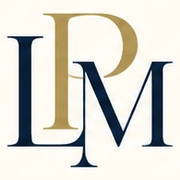
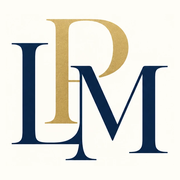
Retire le nom de l'auteur, supprime le rouge, monogramme plus net et mention d'indépendance
Claude-Session: https://claude.ai/code/session_015cSiCekAroUqW2FVDAr8L7

Changed region(s): [[0.0278, 0.0556, 0.9722, 0.9444]]

diff --git a/a-propos.html b/a-propos.html
@@ -4,11 +4,11 @@
   <meta charset="utf-8">
   <meta name="viewport" content="width=device-width, initial-scale=1">
   <title>À propos · Le Petit Monographe</title>
-  <meta name="description" content="S. Enault, auteur de monographies documentaires sur les grands dossiers politiques, économiques, sociaux et criminels.">
+  <meta name="description" content="Le Petit Monographe, publication indépendante de dossiers documentaires sur la politique, l'économie, la société et les affaires judiciaires.">
   <link rel="icon" href="favicon.png" type="image/png">
   <link rel="apple-touch-icon" href="apple-touch-icon.png">
   <meta property="og:title" content="À propos · Le Petit Monographe">
-  <meta property="og:description" content="S. Enault, auteur de monographies documentaires sur les grands dossiers politiques, économiques, sociaux et criminels.">
+  <meta property="og:description" content="Le Petit Monographe, publication indépendante de dossiers documentaires sur la politique, l'économie, la société et les affaires judiciaires.">
   <meta property="og:image" content="https://lepetitmonographe.com/assets/logo-partage.jpg">
   <meta property="og:type" content="website">
   <link rel="preconnect" href="https://fonts.googleapis.com">
@@ -36,15 +36,16 @@
   <section class="tete-page ">
     <div class="conteneur">
       <p class="surtitre">À propos</p>
-      <h1>S. Enault</h1>
-      <p class="chapeau">Auteur et éditeur du Petit Monographe.</p>
+      <h1>Le Petit Monographe</h1>
+      <p class="chapeau">Une publication indépendante, sans affiliation partisane.</p>
     </div>
   </section>
   <section class="section">
     <div class="conteneur">
       <div class="prose">
-        <p>S. Enault est l'auteur de monographies documentaires consacrées aux grands dossiers politiques, économiques, sociaux et criminels contemporains.</p>
-        <p>Sa méthode repose sur un principe simple : distinguer ce qui est établi de ce qui relève de l'interprétation, du débat ou de l'hypothèse. Ses ouvrages s'appuient sur des sources identifiées et datées : données publiques, rapports officiels, décisions de justice, travaux parlementaires, archives, auditions et autres documents vérifiables. Lorsque les sources divergent ou qu'un élément demeure incertain, cette incertitude est signalée.</p>
+        <p>Le Petit Monographe publie des dossiers et des monographies documentaires consacrés aux grands sujets politiques, économiques, sociaux et judiciaires contemporains.</p>
+        <p>Il n'est lié à aucun parti, mouvement, syndicat ou candidat, et ne soutient aucune candidature. Traiter un sujet politique n'est pas prendre parti : les mêmes règles s'appliquent quel que soit le camp concerné.</p>
+        <p>La méthode repose sur un principe simple : distinguer ce qui est établi de ce qui relève de l'interprétation, du débat ou de l'hypothèse. Chaque dossier s'appuie sur des sources identifiées et datées : données publiques, rapports officiels, décisions de justice, travaux parlementaires, archives, auditions et autres documents vérifiables. Lorsque les sources divergent ou qu'un élément demeure incertain, cette incertitude est signalée.</p>
         <p>Dans les affaires judiciaires, les faits établis, les accusations, les témoignages, les expertises et les hypothèses sont présentés séparément, dans le respect de la présomption d'innocence et de l'état réel des procédures.</p>
         <p>L'objectif n'est pas de dire au lecteur ce qu'il doit penser, mais de lui donner les éléments nécessaires pour comprendre, vérifier et se forger sa propre opinion.</p>
         <p class="signature">Les faits d'abord. Les désaccords ensuite. L'opinion reste au lecteur.</p>
@@ -55,7 +56,7 @@
 
 <footer class="pied">
   <div class="conteneur">
-    <span>© 2026 S. Enault · Le Petit Monographe</span>
+    <span>© 2026 Le Petit Monographe</span>
     <span><a href="contact.html">Contact</a> · <a href="mentions-legales.html">Mentions légales</a> · <a href="confidentialite.html">Confidentialité</a></span>
   </div>
 </footer>

diff --git a/livre-emmanuel-macron-le-bilan.html b/livre-emmanuel-macron-le-bilan.html
@@ -4,11 +4,11 @@
   <meta charset="utf-8">
   <meta name="viewport" content="width=device-width, initial-scale=1">
   <title>Emmanuel Macron, le bilan · Le Petit Monographe</title>
-  <meta name="description" content="Emmanuel Macron, le bilan, de S. Enault. Promesses, réformes, crises et affaires : la présidence passée au crible des faits (2017-2026).">
+  <meta name="description" content="Emmanuel Macron, le bilan. Promesses, réformes, crises et affaires : la présidence passée au crible des faits (2017-2026).">
   <link rel="icon" href="favicon.png" type="image/png">
   <link rel="apple-touch-icon" href="apple-touch-icon.png">
   <meta property="og:title" content="Emmanuel Macron, le bilan · Le Petit Monographe">
-  <meta property="og:description" content="Emmanuel Macron, le bilan, de S. Enault. Promesses, réformes, crises et affaires : la présidence passée au crible des faits (2017-2026).">
+  <meta property="og:description" content="Emmanuel Macron, le bilan. Promesses, réformes, crises et affaires : la présidence passée au crible des faits (2017-2026).">
   <meta property="og:image" content="https://lepetitmonographe.com/assets/logo-partage.jpg">
   <meta property="og:type" content="website">
   <link rel="preconnect" href="https://fonts.googleapis.com">
@@ -38,7 +38,7 @@
       <p class="surtitre">Collection Pouvoirs &amp; Société</p>
       <h1>Emmanuel Macron, le bilan</h1>
       <p class="chapeau">Promesses, réformes, crises et affaires : la présidence passée au crible des faits (2017-2026).</p>
-      <p style="margin:24px 0 0;font-size:.875rem;color:var(--encre-douce)">S. Enault · Première édition, octobre 2026 · Faits et données arrêtés au 6 octobre 2026</p>
+      <p style="margin:24px 0 0;font-size:.875rem;color:var(--encre-douce)">Première édition, octobre 2026 · Faits et données arrêtés au 6 octobre 2026</p>
       <p style="margin:20px 0 0"><a class="bouton" href="#" rel="noopener"><span class="a-completer">Lien Amazon</span></a></p>
     </div>
   </section>
@@ -107,7 +107,7 @@
 
 <footer class="pied">
   <div class="conteneur">
-    <span>© 2026 S. Enault · Le Petit Monographe</span>
+    <span>© 2026 Le Petit Monographe</span>
     <span><a href="contact.html">Contact</a> · <a href="mentions-legales.html">Mentions légales</a> · <a href="confidentialite.html">Confidentialité</a></span>
   </div>
 </footer>

diff --git a/livres.html b/livres.html
@@ -4,11 +4,11 @@
   <meta charset="utf-8">
   <meta name="viewport" content="width=device-width, initial-scale=1">
   <title>Livres · Le Petit Monographe</title>
-  <meta name="description" content="Les monographies de S. Enault : collections Pouvoirs & Société et Affaires & Enquêtes.">
+  <meta name="description" content="Les monographies du Petit Monographe : collections Pouvoirs & Société et Affaires & Enquêtes.">
   <link rel="icon" href="favicon.png" type="image/png">
   <link rel="apple-touch-icon" href="apple-touch-icon.png">
   <meta property="og:title" content="Livres · Le Petit Monographe">
-  <meta property="og:description" content="Les monographies de S. Enault : collections Pouvoirs & Société et Affaires & Enquêtes.">
+  <meta property="og:description" content="Les monographies du Petit Monographe : collections Pouvoirs & Société et Affaires & Enquêtes.">
   <meta property="og:image" content="https://lepetitmonographe.com/assets/logo-partage.jpg">
   <meta property="og:type" content="website">
   <link rel="preconnect" href="https://fonts.googleapis.com">
@@ -90,7 +90,7 @@
 
 <footer class="pied">
   <div class="conteneur">
-    <span>© 2026 S. Enault · Le Petit Monographe</span>
+    <span>© 2026 Le Petit Monographe</span>
     <span><a href="contact.html">Contact</a> · <a href="mentions-legales.html">Mentions légales</a> · <a href="confidentialite.html">Confidentialité</a></span>
   </div>
 </footer>

diff --git a/index.html b/index.html
@@ -127,14 +127,14 @@
   <section class="section">
     <div class="conteneur">
       <p class="signature" style="border:0;padding:0;margin:0">Les faits d'abord. Les désaccords ensuite. L'opinion reste au lecteur.</p>
-      <p style="margin:8px 0 0;color:var(--encre-douce)">S. Enault · <a href="a-propos.html">À propos de l'auteur</a></p>
+      <p style="margin:8px 0 0;color:var(--encre-douce)"><a href="a-propos.html">À propos du Petit Monographe</a></p>
     </div>
   </section>
 </main>
 
 <footer class="pied">
   <div class="conteneur">
-    <span>© 2026 S. Enault · Le Petit Monographe</span>
+    <span>© 2026 Le Petit Monographe</span>
     <span><a href="contact.html">Contact</a> · <a href="mentions-legales.html">Mentions légales</a> · <a href="confidentialite.html">Confidentialité</a></span>
   </div>
 </footer>

diff --git a/affaires-enquetes.html b/affaires-enquetes.html
@@ -66,7 +66,7 @@
 
 <footer class="pied">
   <div class="conteneur">
-    <span>© 2026 S. Enault · Le Petit Monographe</span>
+    <span>© 2026 Le Petit Monographe</span>
     <span><a href="contact.html">Contact</a> · <a href="mentions-legales.html">Mentions légales</a> · <a href="confidentialite.html">Confidentialité</a></span>
   </div>
 </footer>

diff --git a/confidentialite.html b/confidentialite.html
@@ -59,7 +59,7 @@
 
 <footer class="pied">
   <div class="conteneur">
-    <span>© 2026 S. Enault · Le Petit Monographe</span>
+    <span>© 2026 Le Petit Monographe</span>
     <span><a href="contact.html">Contact</a> · <a href="mentions-legales.html">Mentions légales</a> · <a href="confidentialite.html">Confidentialité</a></span>
   </div>
 </footer>

diff --git a/contact.html b/contact.html
@@ -52,7 +52,7 @@
 
 <footer class="pied">
   <div class="conteneur">
-    <span>© 2026 S. Enault · Le Petit Monographe</span>
+    <span>© 2026 Le Petit Monographe</span>
     <span><a href="contact.html">Contact</a> · <a href="mentions-legales.html">Mentions légales</a> · <a href="confidentialite.html">Confidentialité</a></span>
   </div>
 </footer>

diff --git a/economie-societe.html b/economie-societe.html
@@ -66,7 +66,7 @@
 
 <footer class="pied">
   <div class="conteneur">
-    <span>© 2026 S. Enault · Le Petit Monographe</span>
+    <span>© 2026 Le Petit Monographe</span>
     <span><a href="contact.html">Contact</a> · <a href="mentions-legales.html">Mentions légales</a> · <a href="confidentialite.html">Confidentialité</a></span>
   </div>
 </footer>

diff --git a/mentions-legales.html b/mentions-legales.html
@@ -59,7 +59,7 @@
 
 <footer class="pied">
   <div class="conteneur">
-    <span>© 2026 S. Enault · Le Petit Monographe</span>
+    <span>© 2026 Le Petit Monographe</span>
     <span><a href="contact.html">Contact</a> · <a href="mentions-legales.html">Mentions légales</a> · <a href="confidentialite.html">Confidentialité</a></span>
   </div>
 </footer>

diff --git a/methode.html b/methode.html
@@ -87,7 +87,7 @@
 
 <footer class="pied">
   <div class="conteneur">
-    <span>© 2026 S. Enault · Le Petit Monographe</span>
+    <span>© 2026 Le Petit Monographe</span>
     <span><a href="contact.html">Contact</a> · <a href="mentions-legales.html">Mentions légales</a> · <a href="confidentialite.html">Confidentialité</a></span>
   </div>
 </footer>

diff --git a/politique-institutions.html b/politique-institutions.html
@@ -66,7 +66,7 @@
 
 <footer class="pied">
   <div class="conteneur">
-    <span>© 2026 S. Enault · Le Petit Monographe</span>
+    <span>© 2026 Le Petit Monographe</span>
     <span><a href="contact.html">Contact</a> · <a href="mentions-legales.html">Mentions légales</a> · <a href="confidentialite.html">Confidentialité</a></span>
   </div>
 </footer>

diff --git a/assets/style.css b/assets/style.css
@@ -7,7 +7,7 @@
   --nuit: #0a1d34;
   --pouvoirs: #1c3a66;
   --economie: #8a6a2c;
-  --affaires: #8c2f39;
+  --affaires: #5a4a3c;
   --marque: #b29657;
   --marque-texte: #8a6f33;
   --display: "Playfair Display", "Didot", Georgia, serif;
